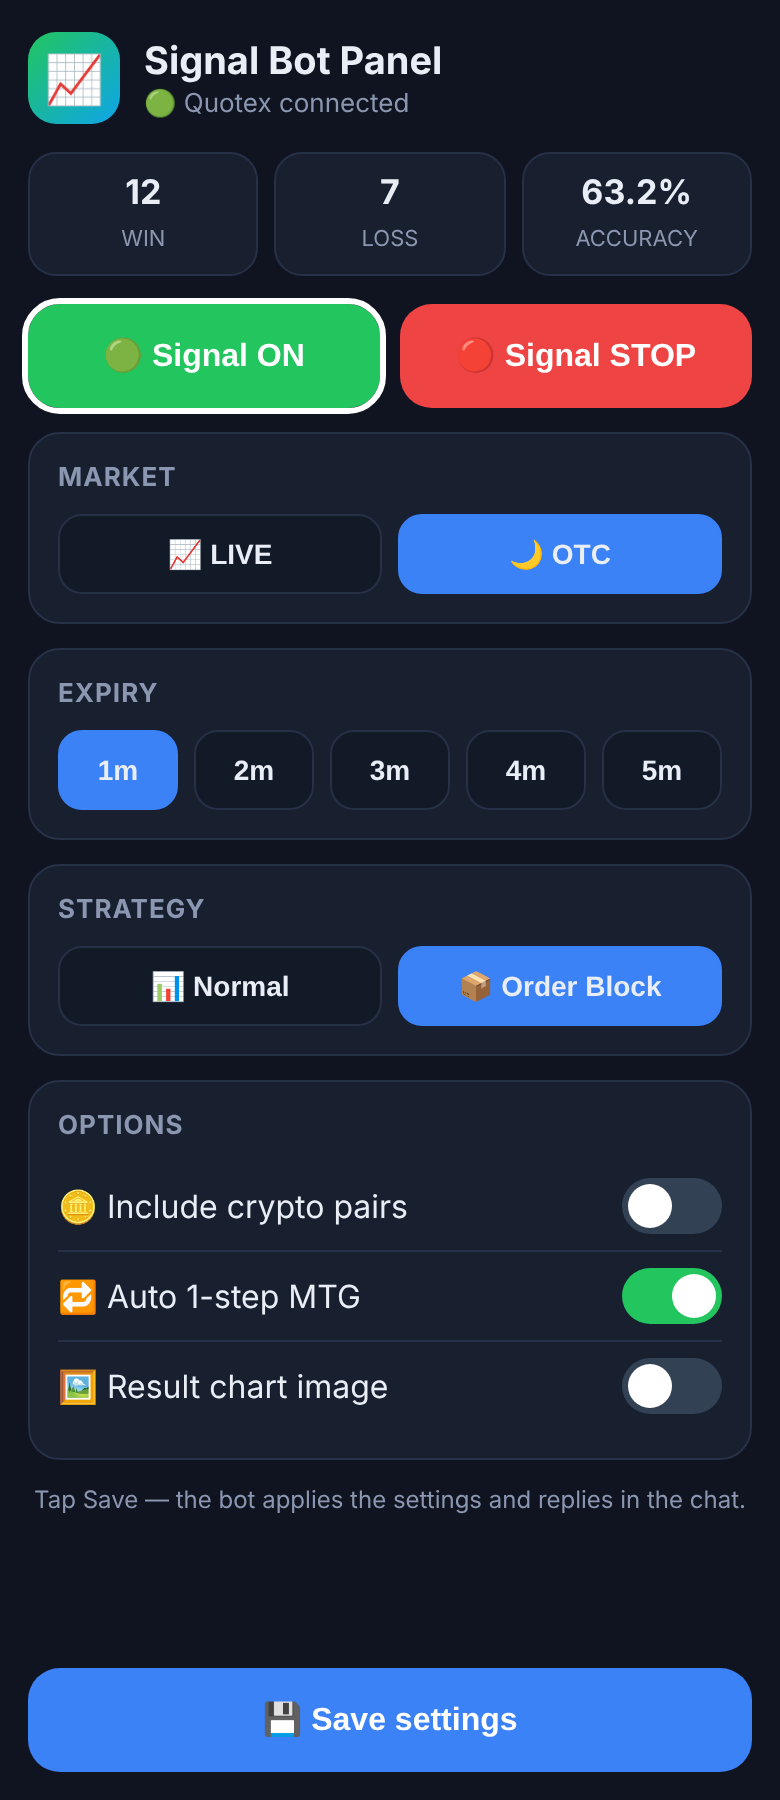
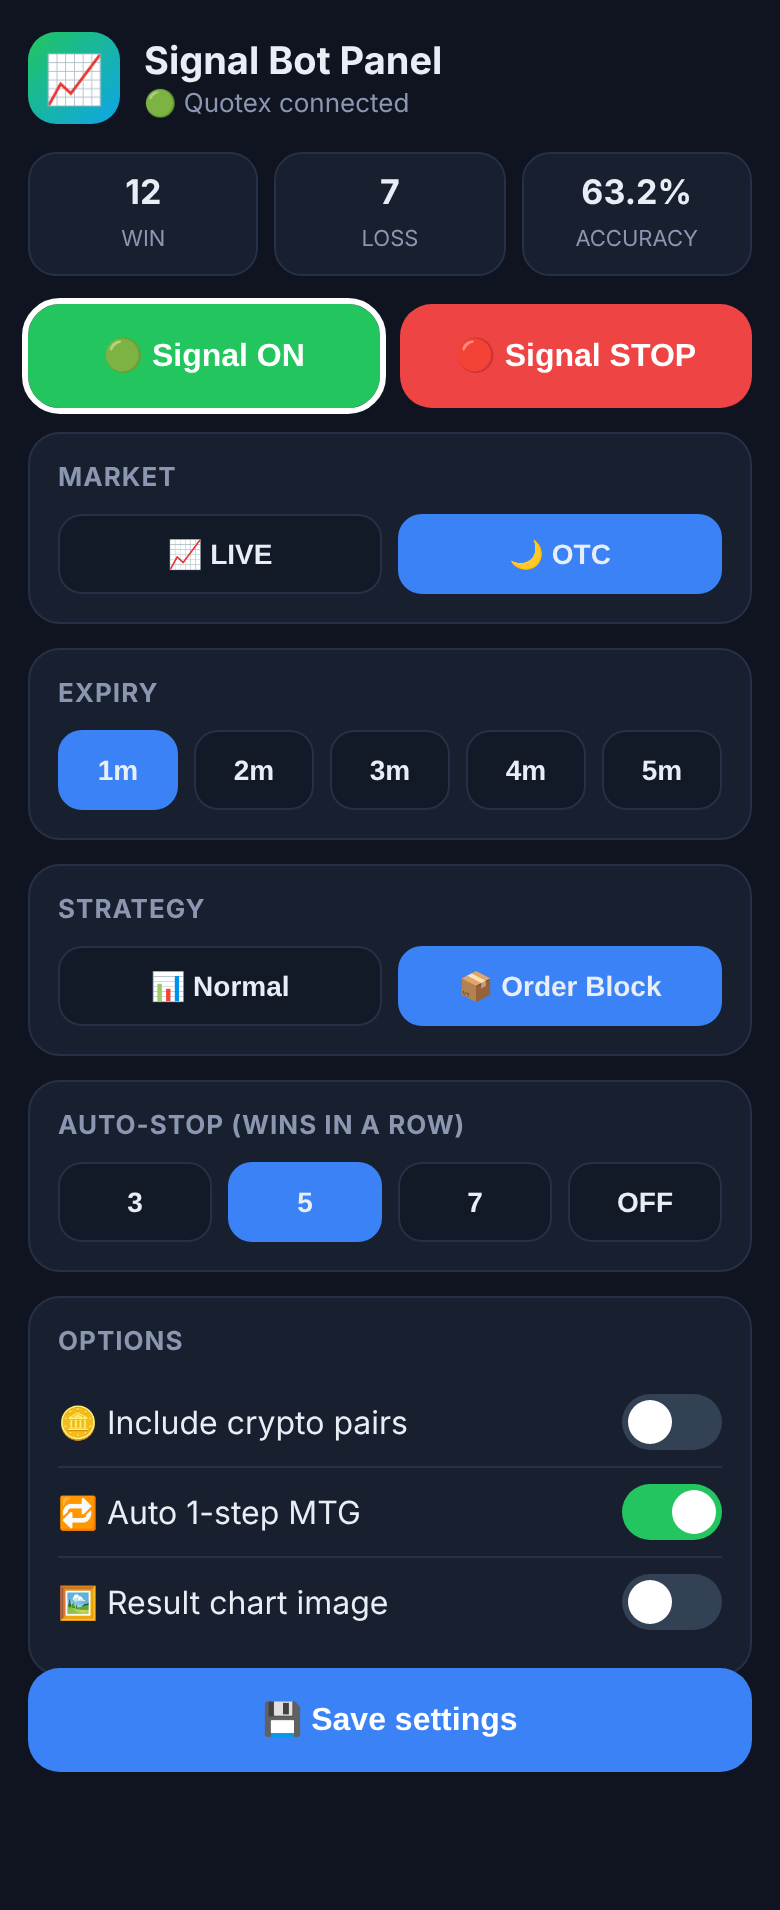
Panel: auto-stop setting (3/5/7/OFF wins in a row)
Claude-Session: https://claude.ai/code/session_017ptHxXU1jqpg71v1AAAYG2

diff --git a/docs/index.html b/docs/index.html
@@ -57,6 +57,9 @@
 <div class="card"><h2>Strategy</h2><div class="seg" id="t">
   <button data-v="n">📊 Normal</button><button data-v="b">📦 Order Block</button></div></div>
 
+<div class="card"><h2>Auto-stop (wins in a row)</h2><div class="seg" id="a">
+  <button data-v="3">3</button><button data-v="5">5</button><button data-v="7">7</button><button data-v="0">OFF</button></div></div>
+
 <div class="card"><h2>Options</h2>
   <div class="row"><span>🪙 Include crypto pairs</span><button class="sw" id="c"></button></div>
   <div class="row"><span>🔁 Auto 1-step MTG</span><button class="sw" id="g"></button></div>
@@ -69,7 +72,7 @@
 const tg = window.Telegram && Telegram.WebApp; if (tg) { tg.ready(); tg.expand(); }
 const q = new URLSearchParams(location.search);
 const S = {s:q.get("s")||"0", m:q.get("m")||"o", e:q.get("e")||"1", t:q.get("t")||"n",
-           c:q.get("c")||"0", g:q.get("g")||"1", h:q.get("h")||"0"};
+           c:q.get("c")||"0", g:q.get("g")||"1", h:q.get("h")||"0", a:q.get("a")||"5"};
 const bot = q.get("bot") || "";
 document.getElementById("w").textContent = q.get("w")||"0";
 document.getElementById("l").textContent = q.get("lo")||"0";
@@ -84,12 +87,12 @@ function sw(id){ const b=document.getElementById(id); b.classList.toggle("on",S[
   b.onclick=()=>{S[id]=S[id]==="1"?"0":"1"; sw(id);}; }
 function onoff(){ document.getElementById("on").classList.toggle("sel",S.s==="1");
   document.getElementById("off").classList.toggle("sel",S.s==="0"); }
-["m","e","t"].forEach(seg); ["c","g","h"].forEach(sw); onoff();
+["m","e","t","a"].forEach(seg); ["c","g","h"].forEach(sw); onoff();
 document.getElementById("on").onclick=()=>{S.s="1";onoff();};
 document.getElementById("off").onclick=()=>{S.s="0";onoff();};
 
 document.getElementById("save").onclick=()=>{
-  const payload = "cfg_s"+S.s+"_m"+S.m+"_e"+S.e+"_t"+S.t+"_c"+S.c+"_g"+S.g+"_h"+S.h;
+  const payload = "cfg_s"+S.s+"_m"+S.m+"_e"+S.e+"_t"+S.t+"_c"+S.c+"_g"+S.g+"_h"+S.h+"_a"+S.a;
   const link = "https://t.me/"+bot+"?start="+payload;
   if (tg) { tg.openTelegramLink(link); setTimeout(()=>tg.close(), 300); } else { location.href = link; }
 };

diff --git a/bot.py b/bot.py
@@ -231,7 +231,7 @@ def status_text():
             f"Auto MTG: {'ON (' + str(config.MTG_STEPS) + ' step)' if state.get('mtg') else 'OFF'}  |  "
             f"Chart image: {'ON' if state.get('chart') else 'OFF'}\n"
             f"Session: {state['session']['w']} W / {state['session']['l']} L, "
-            f"win streak {state['session']['streak']} (auto-stop at {config.AUTO_STOP_WINS})\n"
+            f"win streak {state['session']['streak']} (auto-stop: {auto_stop() or 'OFF'})\n"
             f"Channels ON: {', '.join(str(c) for c in state['subscribers'] if c < 0) or 'none'}\n"
             f"Session stickers: start {'✅' if state['session_stickers'].get('start') else '❌'}"
             f" / close {'✅' if state['session_stickers'].get('close') else '❌'}\n"
@@ -256,6 +256,12 @@ def handle_group(msg):
 BOT_USERNAME = {"v": ""}
 
 
+def auto_stop():
+    """Wins in a row that close the session (panel setting overrides .env); 0 = off."""
+    v = state.get("auto_stop")
+    return config.AUTO_STOP_WINS if v is None else int(v)
+
+
 def panel_url():
     """Mini App URL with the current settings, so the page opens showing them."""
     from urllib.parse import urlencode
@@ -263,6 +269,7 @@ def panel_url():
          "m": "l" if state.get("mode") == "live" else "o", "e": str(state.get("expiry") or config.EXPIRY_MINUTES),
          "t": "b" if state.get("strategy") == "ob" else "n", "c": "1" if state.get("crypto") else "0",
          "g": "1" if state.get("mtg") else "0", "h": "1" if state.get("chart") else "0",
+         "a": str(auto_stop()),
          "w": state.get("win", 0), "lo": state.get("loss", 0),
          "q": "1" if (QX is not None and QX.connected) else "0"}
     return config.WEBAPP_URL + "?" + urlencode(p)
@@ -298,6 +305,8 @@ def apply_panel(cid, payload):
             state["expiry"] = int(kv["e"])
         if kv.get("t") in ("b", "n"):
             state["strategy"] = "ob" if kv["t"] == "b" else ""
+        if kv.get("a", "").isdigit() and int(kv["a"]) in (0, 3, 5, 7):
+            state["auto_stop"] = int(kv["a"])
         for key, name in (("c", "crypto"), ("g", "mtg"), ("h", "chart")):
             if kv.get(key) in ("0", "1"):
                 state[name] = kv[key] == "1"
@@ -343,7 +352,7 @@ def handle(msg):
         send(cid, ("✅ Saved as SESSION START.\nPost this sticker in your channel -> signals start there."
                    if kind == "start" else
                    "✅ Saved as SESSION CLOSED.\nPost it in your channel -> signals stop there.\n"
-                   f"The bot also posts it itself after {config.AUTO_STOP_WINS} wins in a row."),
+                   f"The bot also posts it itself after {auto_stop()} wins in a row." if auto_stop() else ""),
              keyboard=True)
         return
     if cid in pending_sticker and low in ("win", "loss", "itm", "otm"):
@@ -829,10 +838,10 @@ def check_result(sym, sig, start_ms, msg_ids):
             if res != "draw":
                 for st in stickers:
                     send_sticker(cid, st)
-    if config.AUTO_STOP_WINS and state["session"]["streak"] >= config.AUTO_STOP_WINS and res == "win":
+    if auto_stop() and state["session"]["streak"] >= auto_stop() and res == "win":
         channels = [c for c in state["subscribers"] if c < 0]  # channels/groups have negative ids
         targets = channels or list(state["subscribers"])
-        stop_session(targets, f"🏁 {config.AUTO_STOP_WINS} wins in a row - session closed automatically.",
+        stop_session(targets, f"🏁 {auto_stop()} wins in a row - session closed automatically.",
                      post_sticker=True)
     try:
         update_menu_button()  # panel shows the latest record
